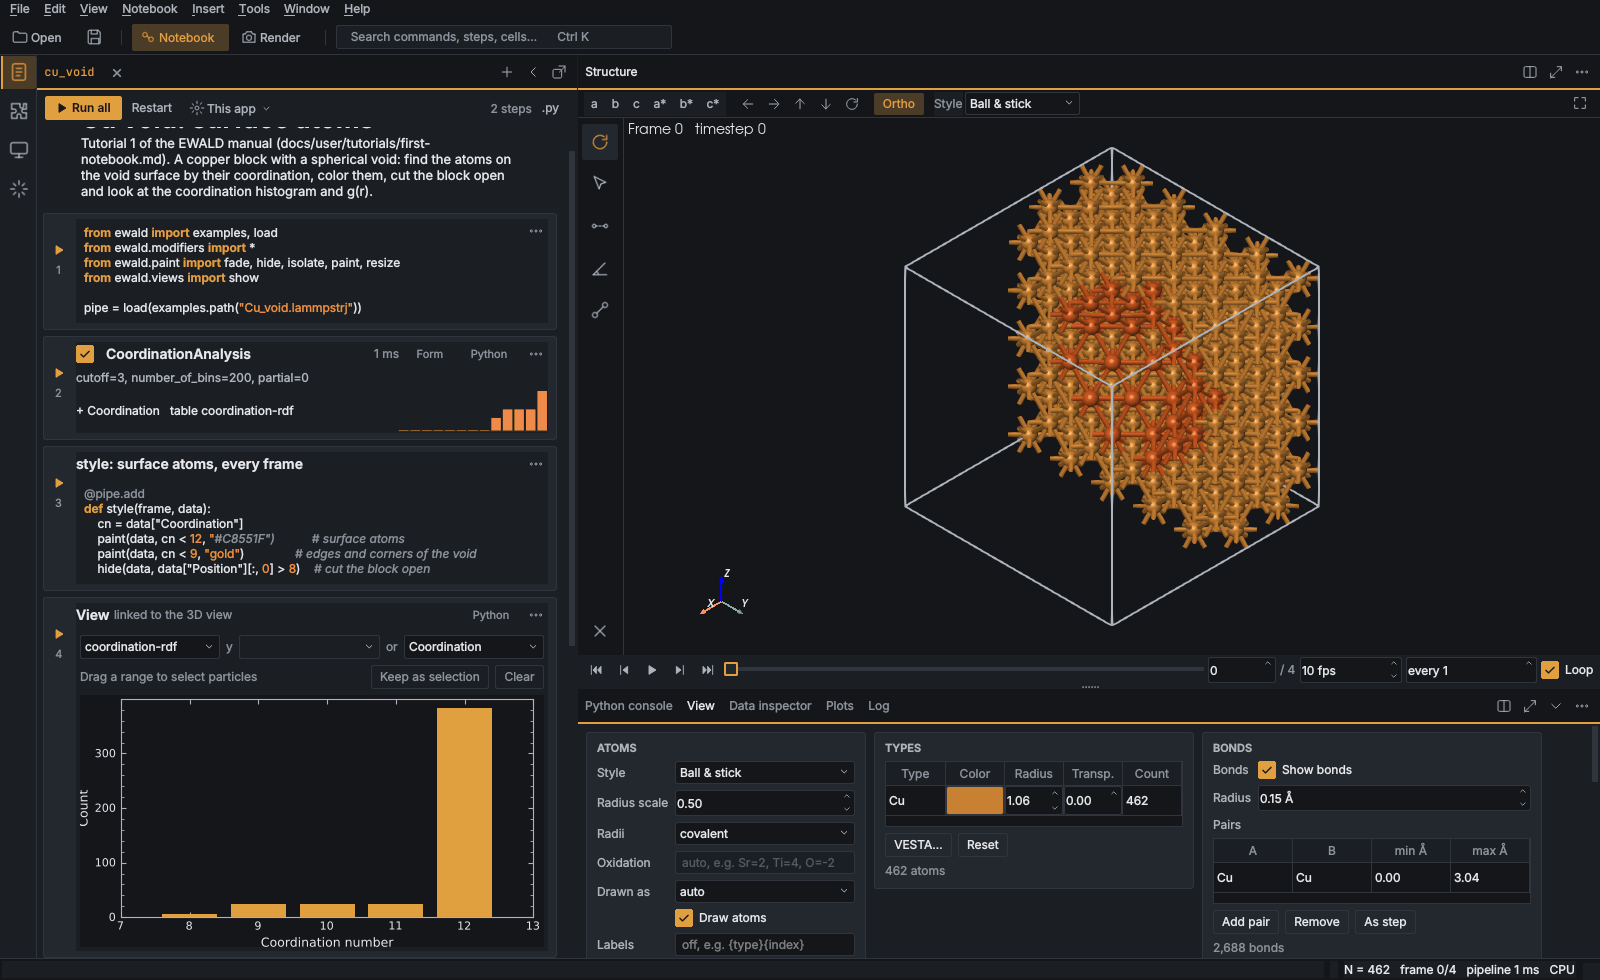
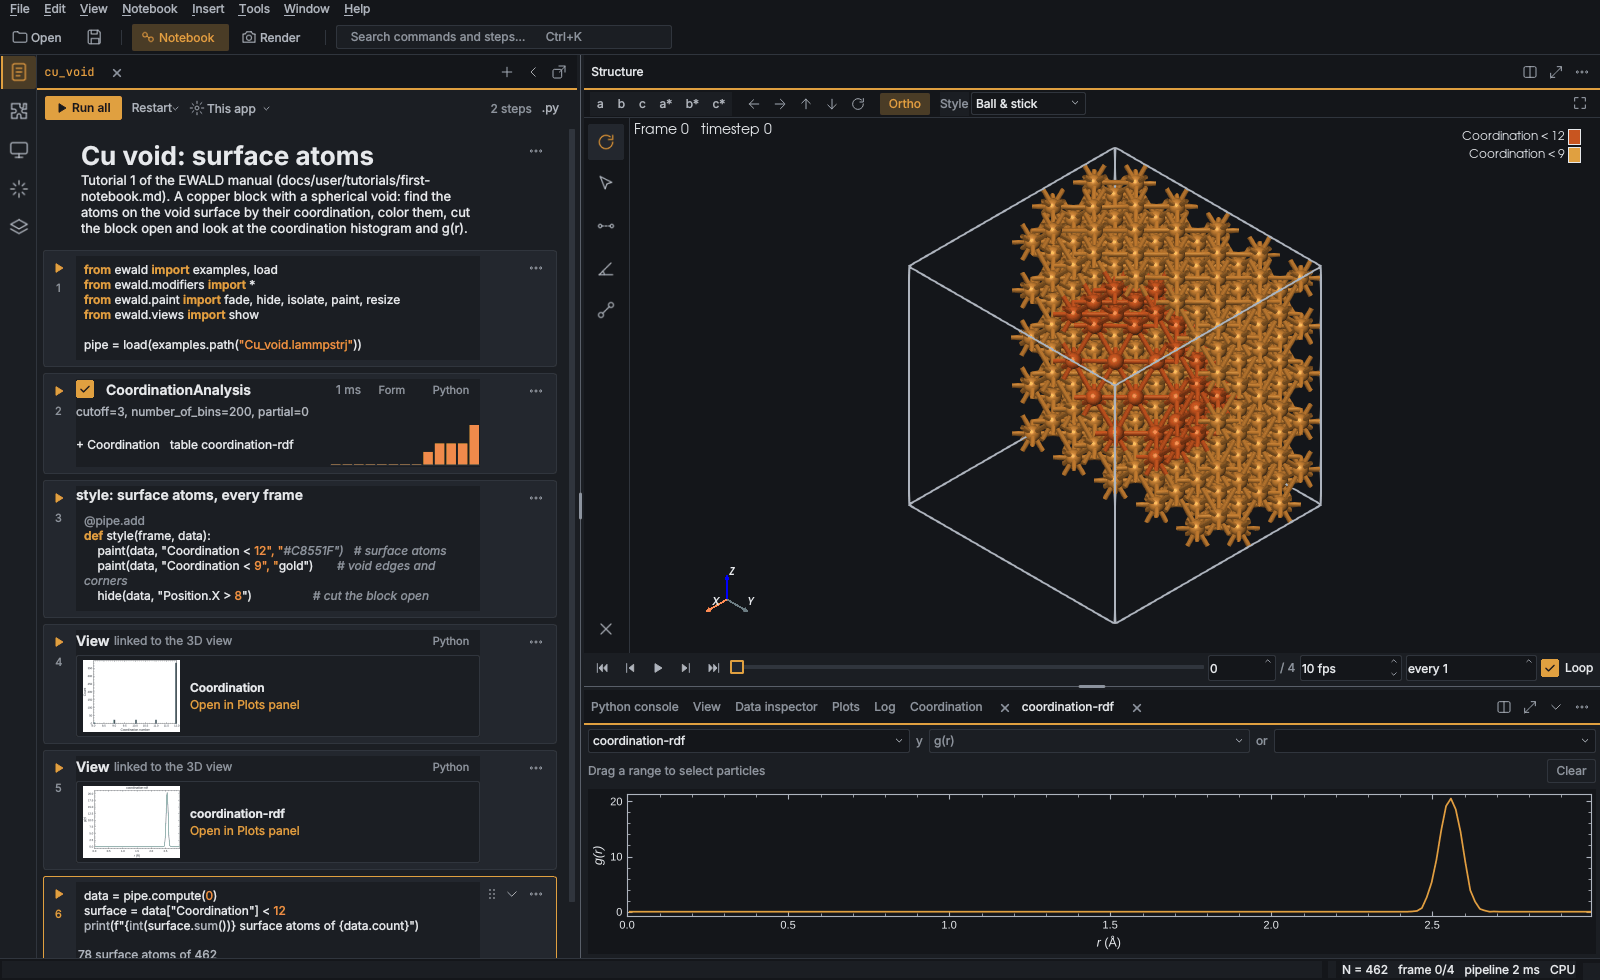
Tutorial notebooks: view cell for the figure, conditions as strings
- srtio3_octahedra: the figure's look (VESTA theme, boundary, direction, legend) moves into a
  view(pipe, ...) cell; pipe.render keeps only output settings. spglib is core, so the
  "pip install ewald[symmetry]" notes go.
- cu_void (and README, notebooks.md): paint/hide take expression strings, so the color legend
  names the conditions instead of "a mask in code".
- Regenerated the manual screenshots made from the tutorial notebooks (plots now open in Plots
  panel tabs; the legend).
- todo.md: rerun of every example; features no tutorial shows yet.

diff --git a/examples/notebooks/srtio3_octahedra.py b/examples/notebooks/srtio3_octahedra.py
@@ -3,12 +3,11 @@
 #
 # Tutorial 2 of the EWALD manual (docs/user/tutorials/structure-figure.md). The space group of a
 # perovskite, its TiO6 octahedra, and a publication figure rendered from the notebook.
-# SymmetryAnalysis needs spglib: pip install "ewald[symmetry]" (or pip install spglib).
 
 # %%
 from ewald import examples, load
 from ewald.modifiers import *
-from ewald.views import show
+from ewald.views import show, view
 
 pipe = load(examples.path("POSCAR.SrTiO3"))
 
@@ -21,6 +20,9 @@ pipe.add(CreateBonds(mode="pairwise", pairs={("Ti", "O"): 2.2}))
 # %% TiO6 octahedra
 pipe.add(CoordinationPolyhedra(center_types=["Ti"], transparency=0.25))
 
+# %% the 3D view: VESTA colors, whole octahedra on the cell faces, an element legend
+view(pipe, theme="VESTA", boundary=(-0.05, 1.05), direction=(3, 1.4, 1), type_legend=True)
+
 # %% bond lengths
 pipe.add(BondLengthDistribution())
 
@@ -32,6 +34,5 @@ data = pipe.compute(0)
 a = data.attributes
 print(a["SymmetryAnalysis.space_group"], a["SymmetryAnalysis.space_group_number"], a["SymmetryAnalysis.wyckoff_sites"])
 
-# %% figure (quality="publication", the default, for the final version)
-pipe.render("srtio3.png", size=(1200, 900), direction=(3, 1.4, 1), theme="VESTA", radius_scale=0.5,
-            boundary=(-0.05, 1.05), type_legend=True, renderer="raytrace", quality="draft")
+# %% figure: drawn with the view above (quality="publication", the default, for the final version)
+pipe.render("srtio3.png", size=(1200, 900), renderer="raytrace", quality="draft")

diff --git a/examples/notebooks/cu_void.py b/examples/notebooks/cu_void.py
@@ -19,10 +19,9 @@ pipe.add(CoordinationAnalysis(cutoff=3.0))
 # %% style: surface atoms, every frame
 @pipe.add
 def style(frame, data):
-    cn = data["Coordination"]
-    paint(data, cn < 12, "#C8551F")           # surface atoms
-    paint(data, cn < 9, "gold")               # edges and corners of the void
-    hide(data, data["Position"][:, 0] > 8)    # cut the block open
+    paint(data, "Coordination < 12", "#C8551F")   # surface atoms
+    paint(data, "Coordination < 9", "gold")       # void edges and corners
+    hide(data, "Position.X > 8")                  # cut the block open
 
 # %%
 show(pipe, histogram="Coordination")

diff --git a/docs/images/make_screenshots.py b/docs/images/make_screenshots.py
@@ -19,7 +19,7 @@ NOTEBOOKS = os.path.join(HERE, "..", "..", "examples", "notebooks")
 # name: (output file, notebook, cell to scroll to, extra setup)
 SHOTS = {
     "notebook": ("notebook.png", "cu_void.py", 4, None),
-    "structure": ("tutorial-structure.png", "srtio3_octahedra.py", 6, None),
+    "structure": ("tutorial-structure.png", "srtio3_octahedra.py", 7, None),
     "trajectory": ("tutorial-trajectory.png", "cu_md_trajectory.py", 7, "frame"),
     "minimal": ("minimal-mode.png", "cu_void.py", None, "minimal"),
     "plugins": ("plugins.png", "cu_void.py", None, "plugins"),

diff --git a/tests/test_tutorials.py b/tests/test_tutorials.py
@@ -35,6 +35,7 @@ def test_srtio3_octahedra(tmp_path, monkeypatch):
     assert "Pm-3m 221 Sr 1a, Ti 1b, O 3c" in out           # quoted in structure-figure.md
     assert (tmp_path / "srtio3.png").stat().st_size > 0
     assert nb.pipeline.compute(0).attributes["CoordinationPolyhedra.count"] == 8
+    assert nb.pipeline.view.boundary == [-0.05, 1.05] and nb.pipeline.view.theme == "VESTA"   # the view cell
 
 
 def test_cu_md_trajectory(tmp_path, monkeypatch):

diff --git a/docs/user/tutorials/structure-figure.md b/docs/user/tutorials/structure-figure.md
@@ -11,8 +11,7 @@ the bond-length distribution, and a figure for a paper. The finished notebook is
 File › Open example › `POSCAR.SrTiO3` (a 2x2x2 supercell, 40 atoms). The toolbar above the view
 has VESTA's directions: *a*, *b*, *c* look along the cell vectors, *a\**, *b\**, *c\** along the
 reciprocal ones, and the arrows rotate in 90° steps. Then add a step (`SymmetryAnalysis` uses
-spglib, which the `[gui]` install leaves out: `pip install "ewald[symmetry]"` first, or
-`pip install spglib`):
+spglib, which ewald installs):
 
 ```python
 pipe.add(SymmetryAnalysis(symprec=0.01))
@@ -42,9 +41,20 @@ pipe.add(CoordinationPolyhedra(center_types=["Ti"], transparency=0.25))
 ```
 
 `mode="covalent"` would bond every pair shorter than 1.15 times the sum of covalent radii instead,
-as VESTA does. To see whole octahedra on the cell faces, tick *Boundary* on the Cell card of
-the View tab (below the 3D view) and set the range to -0.05 to 1.05: the periodic images are drawn and the bonds
-and polyhedra completed, without changing the data.
+as VESTA does.
+
+How the structure is drawn is a view cell. To see whole octahedra on the cell faces, tick *Boundary*
+on the Cell card of the View tab (below the 3D view) and set the range to -0.05 to 1.05: the periodic
+images are drawn and the bonds and polyhedra completed, without changing the data. The GUI writes
+what you change in the View tab into the notebook, here together with VESTA's colors, the viewing
+direction and an element legend:
+
+```python
+view(pipe, theme="VESTA", boundary=(-0.05, 1.05), direction=(3, 1.4, 1), type_legend=True)
+```
+
+Every display setting works this way (`View.help()` lists them: style, colors, radii, bonds,
+replicas, camera, labels, ...), so the notebook alone reproduces the picture.
 
 ## 3. Bond lengths
 
@@ -60,13 +70,15 @@ peak selects the atoms of those bonds.
 ## 4. The figure
 
 The **Render** button opens the render workspace: renderer, size presets for journal columns,
-resolution, background and overlays, with a preview. Its *Python for this figure* panel shows the
-call that makes the same image, so the figure can live in the notebook:
+resolution, background and overlays, with a preview. Its *Python for this figure* panel shows a
+script that makes the same image. In the notebook the look is already in the view cell, so the figure
+only needs the output settings:
 
 ```python
-pipe.render("srtio3.png", size=(1200, 900), direction=(3, 1.4, 1), theme="VESTA", radius_scale=0.5,
-            boundary=(-0.05, 1.05), type_legend=True, renderer="raytrace", quality="draft")
+pipe.render("srtio3.png", size=(1200, 900), renderer="raytrace", quality="draft")
 ```
+
+Keywords given to `render` override the view for that one picture (`theme="CPK"`, `direction="z"`).
 
 `quality="draft"` renders quickly while you adjust things; leave it out for the final figure
 (`"publication"`, the default: 16 rays per pixel, ambient occlusion and shadows). `renderer="vector"`

diff --git a/docs/todo.md b/docs/todo.md
@@ -474,9 +474,9 @@ Docs
 
 - Example files: list the examples (and the downloadable paper datasets) on an empty viewport at
   first start; a GUI entry for `examples.fetch` (File › Open example › From a paper).
-- Examples run (2026-10-20, /mnt/project-files/ewald-review/examples-test.md): Tutorial 2 and
-  `llzo_arrhenius.py` need the `symmetry` / `formats` extras that the README's `[gui]` install
-  leaves out (both say so now); decide with the extras work whether spglib joins the core install.
+- Examples run (2026-10-20, /mnt/project-files/ewald-review/examples-test.md; rerun 2026-10-23:
+  every tutorial, paper script and demo.py passes): `llzo_arrhenius.py` needs the `formats` extra
+  (MDAnalysis) that the README's `[gui]` install leaves out (it says so); spglib is core now.
   Plugin example files (`ewald_phonopy.EXAMPLES`, Cu3Au_band.yaml) are not under File › Open
   example. The Plugins side bar's default catalog (raw.githubusercontent.com of the private
   frssp/ewald-plugins) answers 404 without a GitHub token, so first-party plugins install only by pip.
@@ -499,7 +499,11 @@ Docs
 - More tutorials in the notebook style (examples/notebooks, tested by tests/test_tutorials.py):
   Ask AI and Modifier Forge on a real question, a plugin from the Plugins side bar, a volumetric
   file (CHGCAR isosurface), opening a run on a cluster over SSH, and PLUMED/phonopy once they are
-  plugins. The remaining manual pages (Python scripting, Rendering figures, Modifiers) still show
+  plugins. Features no tutorial shows yet (review 2026-10-23): trajectory lines with
+  `trajectory_trail` and their color bar (the Cu_md example moves too little to show them; needs
+  a diffusing example file), a NEB folder (`NebEnergyProfile`, `OverlayFrames`; only the
+  fe_vacancy_neb paper script), `load([...], join=...)` restart segments, `workflow_table`,
+  `run_info`/`check_run`/`load_runs`, `[each frame]`/`[all frames]` cells, VASP DOS/bands. The remaining manual pages (Python scripting, Rendering figures, Modifiers) still show
   `pipe.modifiers.append` and `import_file`; switch their examples to `load`/`pipe.add` when they
   are next edited.
 - GUI screenshots in docs/images are made by docs/images/make_screenshots.py; Help › About and the

diff --git a/docs/user/tutorials/first-notebook.md b/docs/user/tutorials/first-notebook.md
@@ -48,17 +48,18 @@ Add a code cell (**+ Code**) and type:
 ```python
 @pipe.add
 def style(frame, data):
-    cn = data["Coordination"]
-    paint(data, cn < 12, "#C8551F")           # surface atoms
-    paint(data, cn < 9, "gold")               # edges and corners of the void
-    hide(data, data["Position"][:, 0] > 8)    # cut the block open
+    paint(data, "Coordination < 12", "#C8551F")   # surface atoms
+    paint(data, "Coordination < 9", "gold")       # void edges and corners
+    hide(data, "Position.X > 8")                  # cut the block open
 ```
 
 Run it with Ctrl+Enter. `@pipe.add` makes the function a step that runs on every frame, after the
 coordination step, so the colors follow the atoms through the trajectory: press play under the
-view to check. `paint` takes any matplotlib color, `hide` removes atoms from the picture (not from
-the data), and the condition can also be a string such as `"Coordination < 12"`. `isolate`,
-`fade` and `resize` work the same way.
+view to check. `paint` takes any matplotlib color and `hide` removes atoms from the picture (not
+from the data). The condition is an expression on the particle properties (`Position.X` is the x
+component), so the legend in the corner of the view and of rendered figures says which condition
+each color stands for. A boolean array (`data["Coordination"] < 12`) works too, but the legend can
+then only call it "a mask in code". `isolate`, `fade` and `resize` work the same way.
 
 ## 4. Plot
 

diff --git a/docs/user/notebooks.md b/docs/user/notebooks.md
@@ -226,11 +226,15 @@ frame, so the style follows the trajectory:
 ```python
 @pipe.add
 def style(frame, data):
+    paint(data, "Coordination < 12", "crimson")   # any matplotlib color or RGB
+    hide(data, "Position.X > 9")                  # cut the block open
     cn = data["Coordination"]
-    paint(data, cn < 12, "crimson")             # any matplotlib color or RGB
-    hide(data, data["Position"][:, 0] > 9)      # cut the block open
-    resize(data, "Coordination < 9", 1.3)       # a condition can be an expression string
+    resize(data, cn < 9, 1.3)                     # a boolean array or index list works too
 ```
+
+Write conditions as expression strings where you can: the color legend of the view and of
+rendered figures then names each condition (`Coordination < 12`), while for an array it can only
+say "a mask in code".
 
 `paint`, `hide`, `isolate` (hide the rest), `fade` and `resize` write new Color, Transparency
 and Radius properties, which every renderer draws. Import them with

diff --git a/README.md b/README.md
@@ -92,8 +92,8 @@ pipe.add(CoordinationAnalysis(cutoff=3.0))
 # %% style: surface atoms, every frame
 @pipe.add
 def style(frame, data):
-    paint(data, data["Coordination"] < 12, "#C8551F")
-    hide(data, data["Position"][:, 0] > 8)           # cut the block open
+    paint(data, "Coordination < 12", "#C8551F")      # the legend names the condition
+    hide(data, "Position.X > 8")                     # cut the block open
 
 # %%
 show(pipe, histogram="Coordination")
